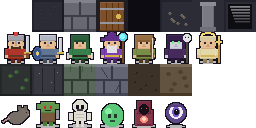
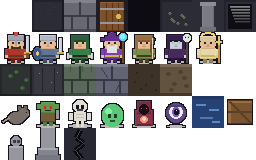
Added more structures and variaty on the map

diff --git a/RoguelikeGame/World/Room.cs b/RoguelikeGame/World/Room.cs
@@ -42,19 +42,17 @@ internal class Room
             _               => (Glyph.Floor,      Glyph.Wall,      new Color(44, 44, 54)),
         };
 
-        // alt starter som vegg/fjell; Build() graver ut gulvet
         _tiles = new Tile[width, height];
         for (int x = 0; x < Width; x++)
             for (int y = 0; y < Height; y++)
                 _tiles[x, y] = Wall();
     }
 
-    // Velg en romform og grav ut gulvet. Kalles etter at dørene er satt.
     public void Build(Random rng, bool isStart)
     {
         if (isStart) { CarveRect(1, 1, Width - 2, Height - 2); return; }
 
-        switch (rng.Next(4))
+        switch (rng.Next(5))
         {
             case 0: // full sal
                 CarveRect(1, 1, Width - 2, Height - 2);
@@ -88,12 +86,20 @@ internal class Room
                             SetFloor(x, y);
                 break;
             }
+
+            case 4: // søylesal
+            {
+                CarveRect(1, 1, Width - 2, Height - 2);
+                for (int x = 3; x < Width - 2; x += 4)
+                    for (int y = 2; y < Height - 2; y += 3)
+                        _tiles[x, y] = Pillar();
+                break;
+            }
         }
     }
 
     public void Decorate(Random rng, bool isStart)
     {
-        // grus (gangbar) på noen gulvruter
         int rubble = rng.Next(0, 6);
         for (int n = 0; n < rubble; n++)
         {
@@ -104,9 +110,8 @@ internal class Room
 
         if (isStart) return;
 
-        // noen søyler (blokkerende) på gulvruter, ikke nær midten
         int cx = Width / 2, cy = Height / 2;
-        int pillars = rng.Next(0, 5);
+        int pillars = rng.Next(0, 4);
         for (int n = 0; n < pillars; n++)
         {
             int x = rng.Next(2, Width - 2);
@@ -114,9 +119,70 @@ internal class Room
             if (_tiles[x, y].IsWalkable && (Math.Abs(x - cx) > 2 || Math.Abs(y - cy) > 2))
                 _tiles[x, y] = Pillar();
         }
+
+        PlaceFeatures(rng);
     }
 
-    // Garanter at midten og hver dør henger sammen (kjøres sist).
+    // Plasser 1-3 flerfelts-objekter på ledige gulvflater.
+    private void PlaceFeatures(Random rng)
+    {
+        int n = rng.Next(1, 4);
+        for (int k = 0; k < n; k++)
+        {
+            switch (rng.Next(4))
+            {
+                case 0: PlaceCluster(rng, 3, 2, Water); break;
+                case 1: PlaceCluster(rng, 2, 2, Crate); break;
+                case 2: PlaceCluster(rng, 3, 2, Crack); break;
+                case 3: PlaceStatue(rng); break;
+            }
+        }
+    }
+
+    private bool RegionFloor(int x0, int y0, int w, int h)
+    {
+        int cx = Width / 2, cy = Height / 2;
+        for (int x = x0; x < x0 + w; x++)
+            for (int y = y0; y < y0 + h; y++)
+            {
+                if (x < 1 || y < 1 || x >= Width - 1 || y >= Height - 1) return false;
+                if (!_tiles[x, y].IsWalkable) return false;
+                if (Math.Abs(x - cx) <= 2 && Math.Abs(y - cy) <= 2) return false;
+            }
+        return true;
+    }
+
+    private void PlaceCluster(Random rng, int w, int h, Func<Tile> make)
+    {
+        for (int t = 0; t < 15; t++)
+        {
+            int x0 = rng.Next(1, Math.Max(2, Width - 1 - w));
+            int y0 = rng.Next(1, Math.Max(2, Height - 1 - h));
+            if (RegionFloor(x0, y0, w, h))
+            {
+                for (int x = x0; x < x0 + w; x++)
+                    for (int y = y0; y < y0 + h; y++)
+                        _tiles[x, y] = make();
+                return;
+            }
+        }
+    }
+
+    private void PlaceStatue(Random rng)
+    {
+        for (int t = 0; t < 15; t++)
+        {
+            int x = rng.Next(2, Width - 2);
+            int y = rng.Next(3, Height - 2);
+            if (RegionFloor(x, y - 1, 1, 2))
+            {
+                _tiles[x, y] = StatueBottom();
+                _tiles[x, y - 1] = StatueTop();
+                return;
+            }
+        }
+    }
+
     public void CarveDoorCorridors()
     {
         int cx = Width / 2, cy = Height / 2;
@@ -230,14 +296,19 @@ internal class Room
             for (int y = 0; y < Height; y++)
             {
                 Tile t = _tiles[x, y];
-                if (t.IsWalkable)
-                    surface.SetGlyph(x, y, t.Glyph, t.Foreground, t.Background);
-                else if (t.Glyph == Glyph.Pillar)
-                    surface.SetGlyph(x, y, Glyph.Pillar, Color.White, Color.Black);
-                else if (AdjacentToWalkable(x, y))
-                    surface.SetGlyph(x, y, _wallGlyph, Color.White, Color.Black);
+                if (!t.IsWalkable && t.Glyph == _wallGlyph)
+                {
+                    // fjell/vegg: vegg-glyf der det grenser til gulv, ellers svart
+                    if (AdjacentToWalkable(x, y))
+                        surface.SetGlyph(x, y, _wallGlyph, Color.White, Color.Black);
+                    else
+                        surface.SetGlyph(x, y, Glyph.Void, Color.White, Color.Black);
+                }
                 else
-                    surface.SetGlyph(x, y, Glyph.Void, Color.White, Color.Black);
+                {
+                    // gulv, grus, søyler og flerfelts-objekter tegner sin egen glyf
+                    surface.SetGlyph(x, y, t.Glyph, t.Foreground, t.Background);
+                }
             }
 
         if (Stairs.HasValue)
@@ -276,4 +347,19 @@ internal class Room
 
     private static Tile Rubble() => new()
     { Glyph = Glyph.Rubble, Foreground = Color.White, Background = Color.Black, IsWalkable = true };
+
+    private static Tile Water() => new()
+    { Glyph = Glyph.Water, Foreground = Color.White, Background = Color.Black, IsWalkable = false };
+
+    private static Tile Crate() => new()
+    { Glyph = Glyph.Crate, Foreground = Color.White, Background = Color.Black, IsWalkable = false };
+
+    private static Tile Crack() => new()
+    { Glyph = Glyph.Crack, Foreground = Color.White, Background = Color.Black, IsWalkable = false };
+
+    private static Tile StatueTop() => new()
+    { Glyph = Glyph.StatueTop, Foreground = Color.White, Background = Color.Black, IsWalkable = false };
+
+    private static Tile StatueBottom() => new()
+    { Glyph = Glyph.StatueBottom, Foreground = Color.White, Background = Color.Black, IsWalkable = false };
 }

diff --git a/RoguelikeGame/Tools/gen_tiles.py b/RoguelikeGame/Tools/gen_tiles.py
@@ -8,7 +8,7 @@ from PIL import Image, ImageDraw
 
 TILE = 32
 COLS = 8
-ROWS = 4
+ROWS = 5
 OUTLINE = (22, 18, 30, 255)
 
 sheet = Image.new("RGBA", (COLS * TILE, ROWS * TILE), (0, 0, 0, 0))
@@ -441,6 +441,64 @@ def seer(i):
 
 cultist(28)
 seer(29)
+
+# ---- flerfelts-objekter ----
+# 30 water - vanndam (fyller hele flisa, flere ved siden av hverandre = dam)
+def water(i):
+    rect(i, 0, 0, 31, 31, (38, 66, 116, 255))
+    rect(i, 0, 0, 31, 2, (30, 54, 96, 255))
+    rect(i, 4, 8, 13, 9, (92, 138, 198, 255))
+    rect(i, 17, 13, 26, 14, (92, 138, 198, 255))
+    rect(i, 8, 21, 20, 22, (78, 120, 180, 255))
+    rect(i, 20, 25, 27, 26, (92, 138, 198, 255))
+
+# 31 crate - trekasse
+def crate(i):
+    rect(i, 4, 4, 27, 27, (120, 84, 48, 255))
+    rect(i, 4, 4, 27, 6, (150, 110, 66, 255))
+    rect(i, 4, 4, 6, 27, (150, 110, 66, 255))
+    rect(i, 4, 4, 27, 4, darken((120, 84, 48, 255), 30))
+    rect(i, 4, 27, 27, 27, darken((120, 84, 48, 255), 30))
+    rect(i, 4, 15, 27, 16, (92, 64, 36, 255))     # midtplanke
+    d.line([org(i)[0] + 5, org(i)[1] + 5, org(i)[0] + 26, org(i)[1] + 26], fill=(92, 64, 36, 255), width=2)
+    outline_tile(i)
+
+# 32 statue top / 33 statue bottom - 2 fliser hoy stenstatue
+def statue_top(i):
+    stone = (150, 150, 160, 255)
+    ellipse(i, 11, 8, 20, 18, stone)               # hode
+    rect(i, 9, 18, 22, 31, stone)                  # skuldre/overkropp
+    rect(i, 13, 12, 15, 14, (60, 60, 70, 255))     # oyne
+    rect(i, 17, 12, 19, 14, (60, 60, 70, 255))
+    rect(i, 9, 18, 22, 19, lighten(stone, 25))
+    outline_tile(i)
+
+def statue_bottom(i):
+    stone = (150, 150, 160, 255)
+    rect(i, 9, 0, 22, 20, stone)                   # kropp
+    rect(i, 6, 20, 25, 27, darken(stone, 18))      # sokkel
+    rect(i, 4, 27, 27, 31, darken(stone, 30))
+    rect(i, 6, 20, 25, 21, lighten(stone, 20))
+    outline_tile(i)
+
+# 34 crack - sprekk / avgrunn i gulvet
+def crack(i):
+    rect(i, 0, 0, 31, 31, (40, 40, 50, 255))       # mork stein rundt
+    pts = [(16, 2), (12, 9), (19, 15), (11, 22), (17, 30)]
+    for n in range(len(pts) - 1):
+        d.line([org(i)[0] + pts[n][0], org(i)[1] + pts[n][1],
+                org(i)[0] + pts[n + 1][0], org(i)[1] + pts[n + 1][1]],
+               fill=(8, 8, 12, 255), width=5)
+    for n in range(len(pts) - 1):
+        d.line([org(i)[0] + pts[n][0], org(i)[1] + pts[n][1],
+                org(i)[0] + pts[n + 1][0], org(i)[1] + pts[n + 1][1]],
+               fill=(70, 70, 84, 255), width=1)
+
+water(30)
+crate(31)
+statue_top(32)
+statue_bottom(33)
+crack(34)
 
 sheet.save("/home/claude/tiles.png")
 print("tiles.png:", sheet.size)

diff --git a/RoguelikeGame/Core/Glyph.cs b/RoguelikeGame/Core/Glyph.cs
@@ -16,4 +16,6 @@ internal static class Glyph
 
     public const int Rat = 24, Goblin = 25, Skeleton = 26, Slime = 27,
                      Cultist = 28, Seer = 29;
+
+    public const int Water = 30, Crate = 31, StatueTop = 32, StatueBottom = 33, Crack = 34;
 }